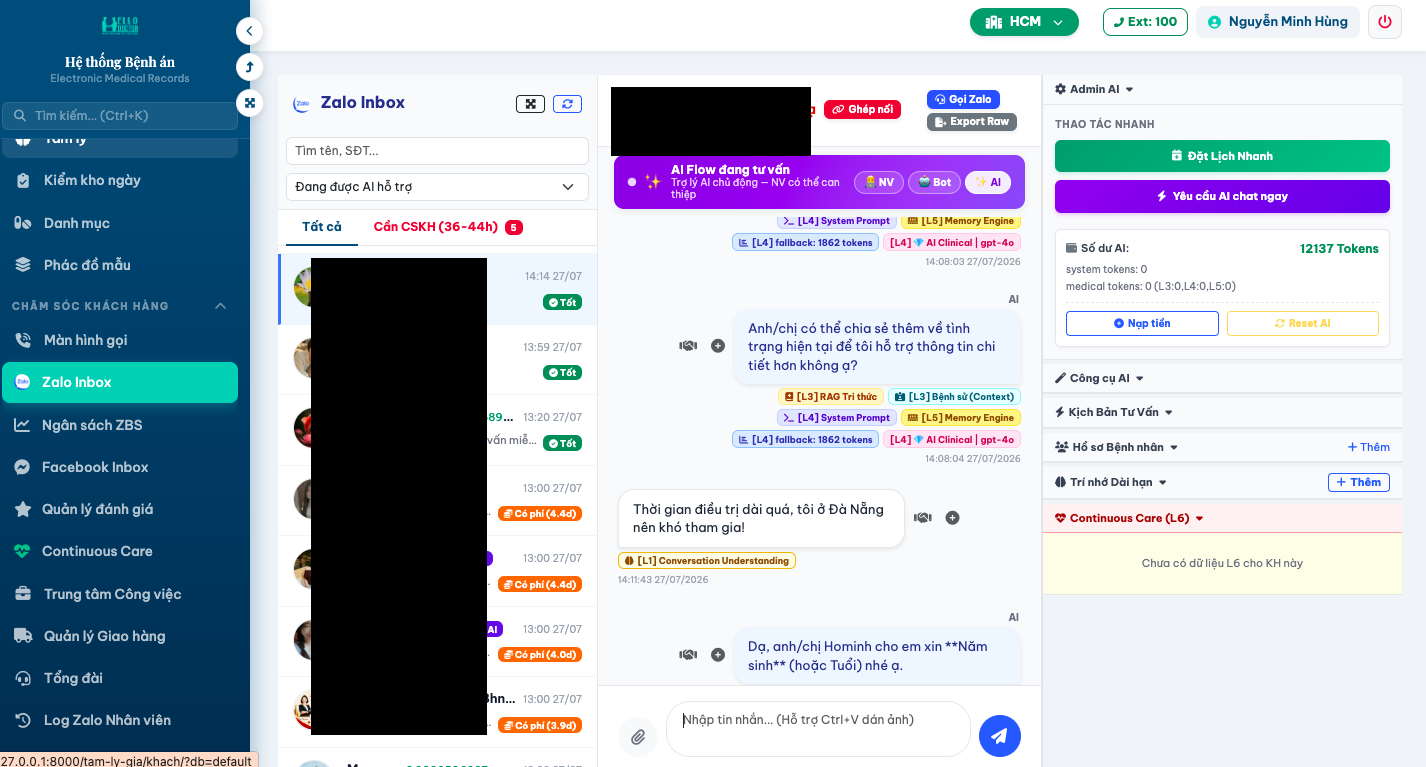
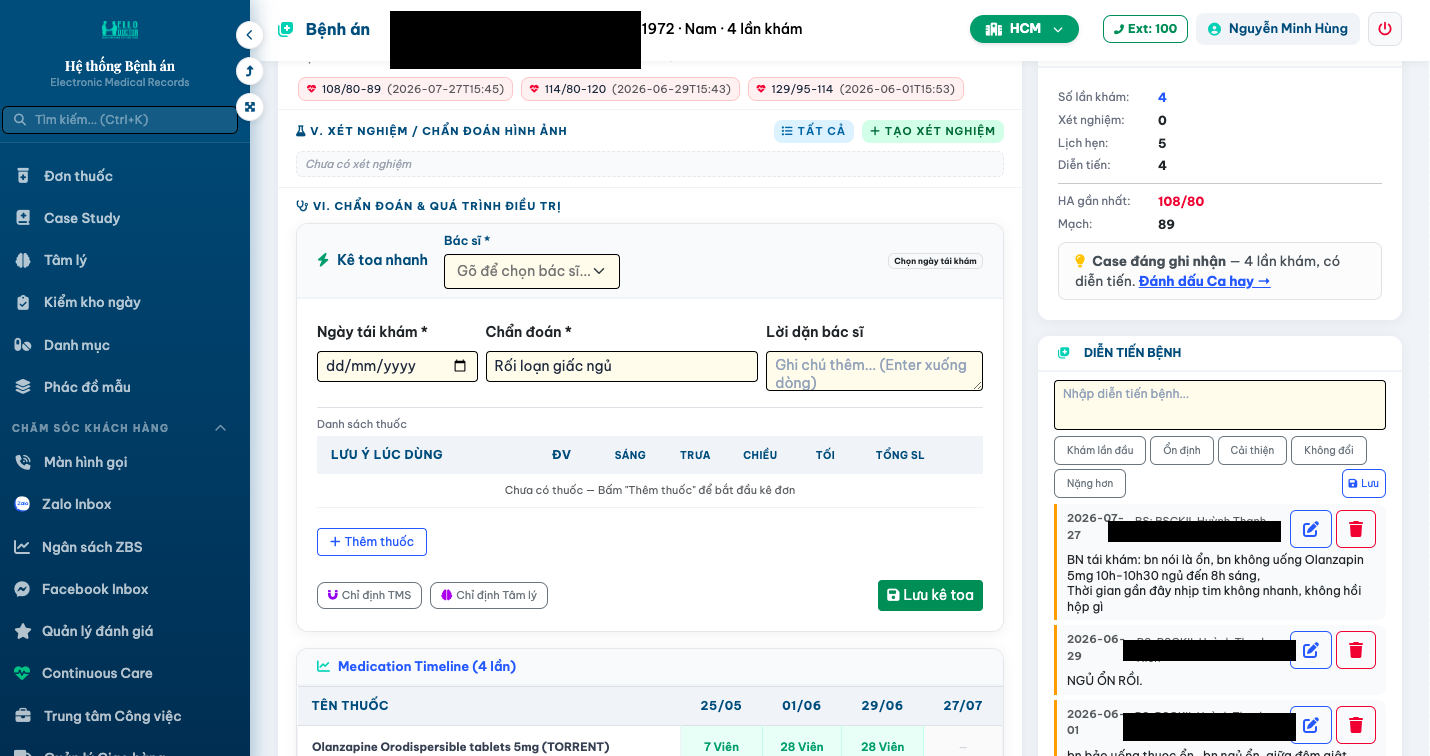
fix(landing): align showcase images with correct text descriptions

diff --git a/index.html b/index.html
@@ -203,24 +203,24 @@
             <div class="showcase-grid" style="display: grid; grid-template-columns: repeat(auto-fit, minmax(300px, 1fr)); gap: 20px;">
                 <div class="glass-card feature-card" style="padding: 15px; text-align: center;">
                     <div style="background: rgba(255,255,255,0.05); border: 1px dashed rgba(255,255,255,0.2); border-radius: 8px; height: 200px; display: flex; align-items: center; justify-content: center; margin-bottom: 15px; overflow: hidden;">
-                        <img src="dashboard.png" alt="Dashboard Placeholder" onerror="this.style.display='none'" style="width: 100%; height: 100%; object-fit: cover;">
-                        <span style="color: var(--text-muted); font-size: 0.9rem; position: absolute; z-index: -1;">[Screenshot: Dashboard]</span>
+                        <img src="emr.png" alt="EMR Placeholder" onerror="this.style.display='none'" style="width: 100%; height: 100%; object-fit: cover;">
+                        <span style="color: var(--text-muted); font-size: 0.9rem; position: absolute; z-index: -1;">[Screenshot: EMR]</span>
                     </div>
                     <h3 data-i18n="showcase_1_h3" style="font-size: 1.1rem; margin-bottom: 10px;">Clinical Dashboard</h3>
                     <p data-i18n="showcase_1_p" style="font-size: 0.9rem; color: var(--text-muted);">Real-time overview of patient metrics and clinic performance.</p>
                 </div>
                 <div class="glass-card feature-card" style="padding: 15px; text-align: center;">
                     <div style="background: rgba(255,255,255,0.05); border: 1px dashed rgba(255,255,255,0.2); border-radius: 8px; height: 200px; display: flex; align-items: center; justify-content: center; margin-bottom: 15px; overflow: hidden;">
-                        <img src="emr.png" alt="EMR Placeholder" onerror="this.style.display='none'" style="width: 100%; height: 100%; object-fit: cover;">
-                        <span style="color: var(--text-muted); font-size: 0.9rem; position: absolute; z-index: -1;">[Screenshot: EMR]</span>
+                        <img src="chat.png" alt="AI Chat Placeholder" onerror="this.style.display='none'" style="width: 100%; height: 100%; object-fit: cover;">
+                        <span style="color: var(--text-muted); font-size: 0.9rem; position: absolute; z-index: -1;">[Screenshot: AI Chat]</span>
                     </div>
                     <h3 data-i18n="showcase_2_h3" style="font-size: 1.1rem; margin-bottom: 10px;">Electronic Medical Records</h3>
                     <p data-i18n="showcase_2_p" style="font-size: 0.9rem; color: var(--text-muted);">Comprehensive patient history and treatment tracking.</p>
                 </div>
                 <div class="glass-card feature-card" style="padding: 15px; text-align: center;">
                     <div style="background: rgba(255,255,255,0.05); border: 1px dashed rgba(255,255,255,0.2); border-radius: 8px; height: 200px; display: flex; align-items: center; justify-content: center; margin-bottom: 15px; overflow: hidden;">
-                        <img src="chat.png" alt="AI Chat Placeholder" onerror="this.style.display='none'" style="width: 100%; height: 100%; object-fit: cover;">
-                        <span style="color: var(--text-muted); font-size: 0.9rem; position: absolute; z-index: -1;">[Screenshot: AI Chat]</span>
+                        <img src="graph.png" alt="AI Graph Placeholder" onerror="this.style.display='none'" style="width: 100%; height: 100%; object-fit: cover;">
+                        <span style="color: var(--text-muted); font-size: 0.9rem; position: absolute; z-index: -1;">[Screenshot: AI Graph]</span>
                     </div>
                     <h3 data-i18n="showcase_3_h3" style="font-size: 1.1rem; margin-bottom: 10px;">AI Assistant Interface</h3>
                     <p data-i18n="showcase_3_p" style="font-size: 0.9rem; color: var(--text-muted);">Interactive AI triage and continuous care companion.</p>

diff --git a/i18n.js b/i18n.js
@@ -149,12 +149,12 @@ const dictionary = {
         road3_p: "Establishing a scalable, nationwide healthcare infrastructure and interconnected clinical network.",
         showcase_h2: "Platform Showcase",
         showcase_p: "Experience our live, launched product interface designed for seamless clinic management.",
-        showcase_1_h3: "Clinical Dashboard",
-        showcase_1_p: "Real-time overview of patient metrics and clinic performance.",
-        showcase_2_h3: "Electronic Medical Records",
-        showcase_2_p: "Comprehensive patient history and treatment tracking.",
-        showcase_3_h3: "AI Assistant Interface",
-        showcase_3_p: "Interactive AI triage and continuous care companion.",
+        showcase_1_h3: "Electronic Medical Records",
+        showcase_1_p: "Comprehensive patient history and treatment tracking.",
+        showcase_2_h3: "AI Assistant Interface",
+        showcase_2_p: "Interactive AI triage and continuous care companion.",
+        showcase_3_h3: "AI Architecture Graph",
+        showcase_3_p: "Real-time visualization of the Multi-Agent orchestrator.",
         team_h2: "Leadership Team",
         team_p: "A unique synergy of Medical Experts and AI Engineers.",
         team1_role: "Founder & CEO",
@@ -572,12 +572,12 @@ const dictionary = {
         road3_p: "Xây dựng hạ tầng y tế đồng bộ, có khả năng mở rộng trên quy mô toàn quốc và kết nối mạng lưới phòng khám.",
         showcase_h2: "Giao diện Nền tảng",
         showcase_p: "Trải nghiệm giao diện sản phẩm thực tế đã được triển khai, thiết kế tối ưu cho quản lý phòng khám.",
-        showcase_1_h3: "Bảng điều khiển Lâm sàng",
-        showcase_1_p: "Theo dõi thời gian thực các chỉ số bệnh nhân và hiệu suất phòng khám.",
-        showcase_2_h3: "Bệnh án Điện tử (EMR)",
-        showcase_2_p: "Lưu trữ toàn diện tiền sử bệnh và quá trình điều trị của bệnh nhân.",
-        showcase_3_h3: "Giao diện Trợ lý AI",
-        showcase_3_p: "Trợ lý ảo AI phân luồng thông minh và đồng hành chăm sóc liên tục.",
+        showcase_1_h3: "Bệnh án Điện tử (EMR)",
+        showcase_1_p: "Lưu trữ toàn diện tiền sử bệnh và quá trình điều trị của bệnh nhân.",
+        showcase_2_h3: "Giao diện Trợ lý AI",
+        showcase_2_p: "Trợ lý ảo AI phân luồng thông minh và đồng hành chăm sóc liên tục.",
+        showcase_3_h3: "Sơ đồ Kiến trúc AI",
+        showcase_3_p: "Hiển thị trực quan luồng xử lý đa đặc vụ (Multi-Agent) theo thời gian thực.",
         team_h2: "Đội ngũ Lãnh đạo",
         team_p: "Sự kết hợp hoàn hảo giữa Chuyên gia Y tế và Kỹ sư AI.",
         team1_role: "Nhà Sáng lập & CEO",
